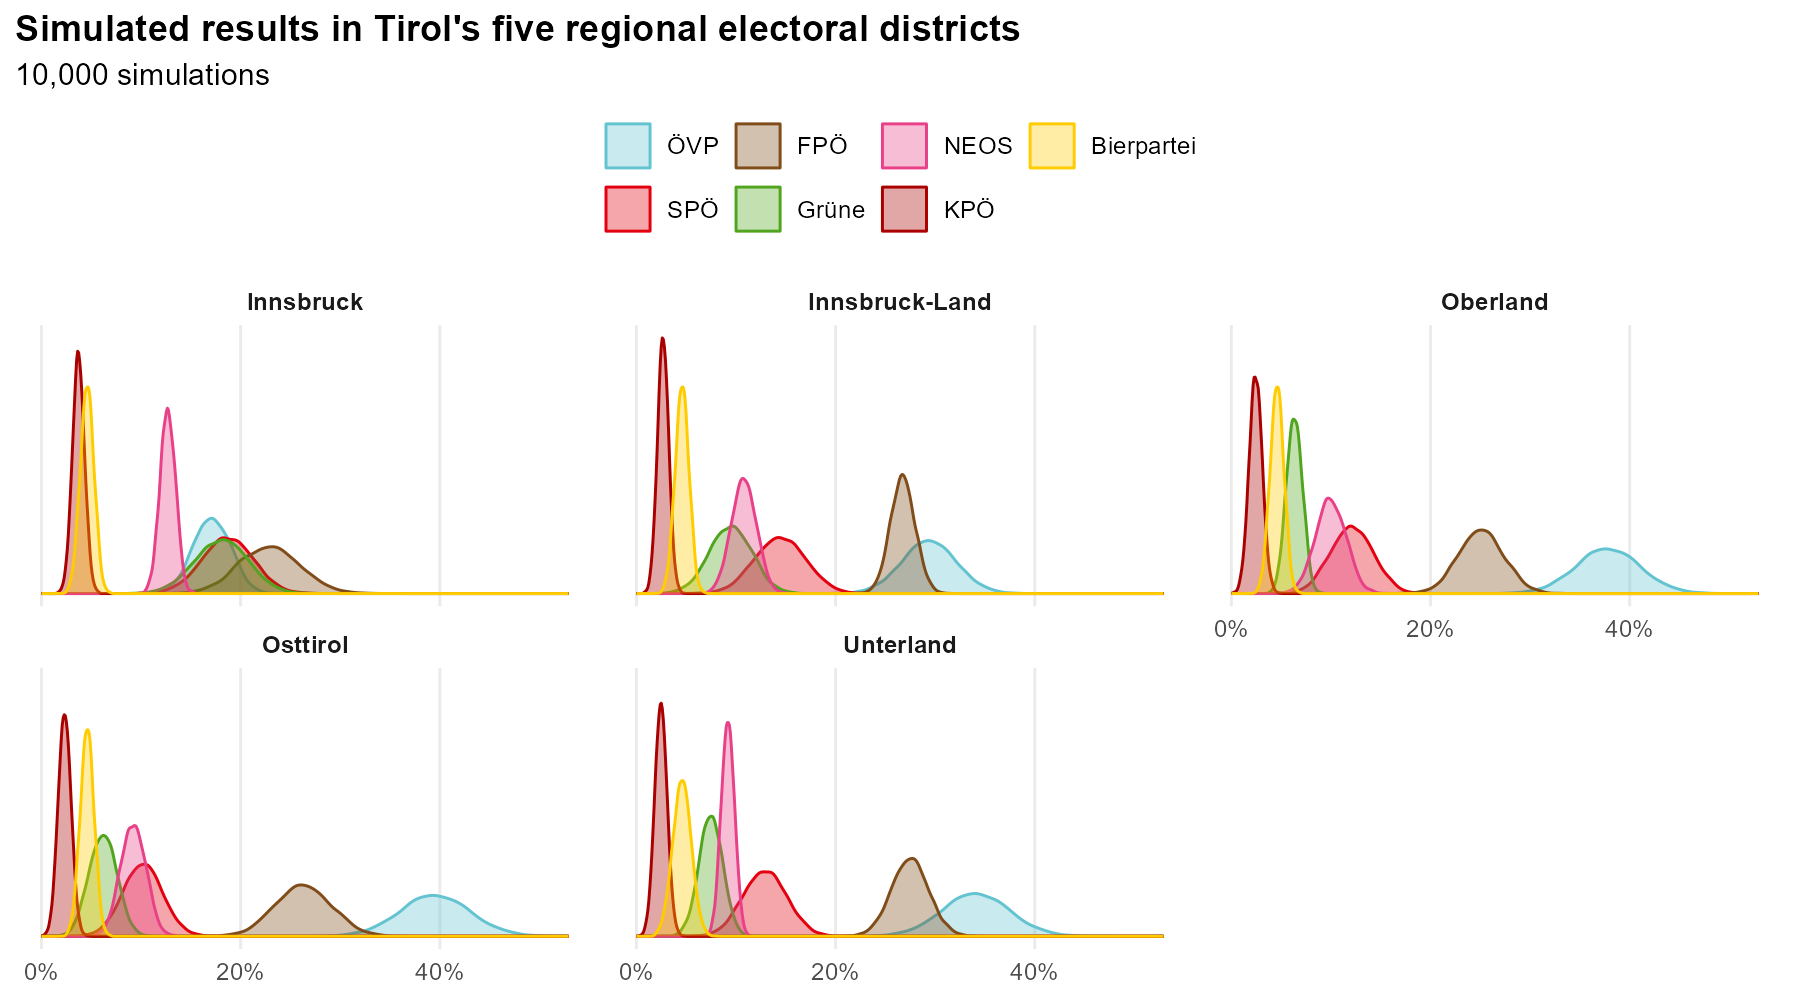
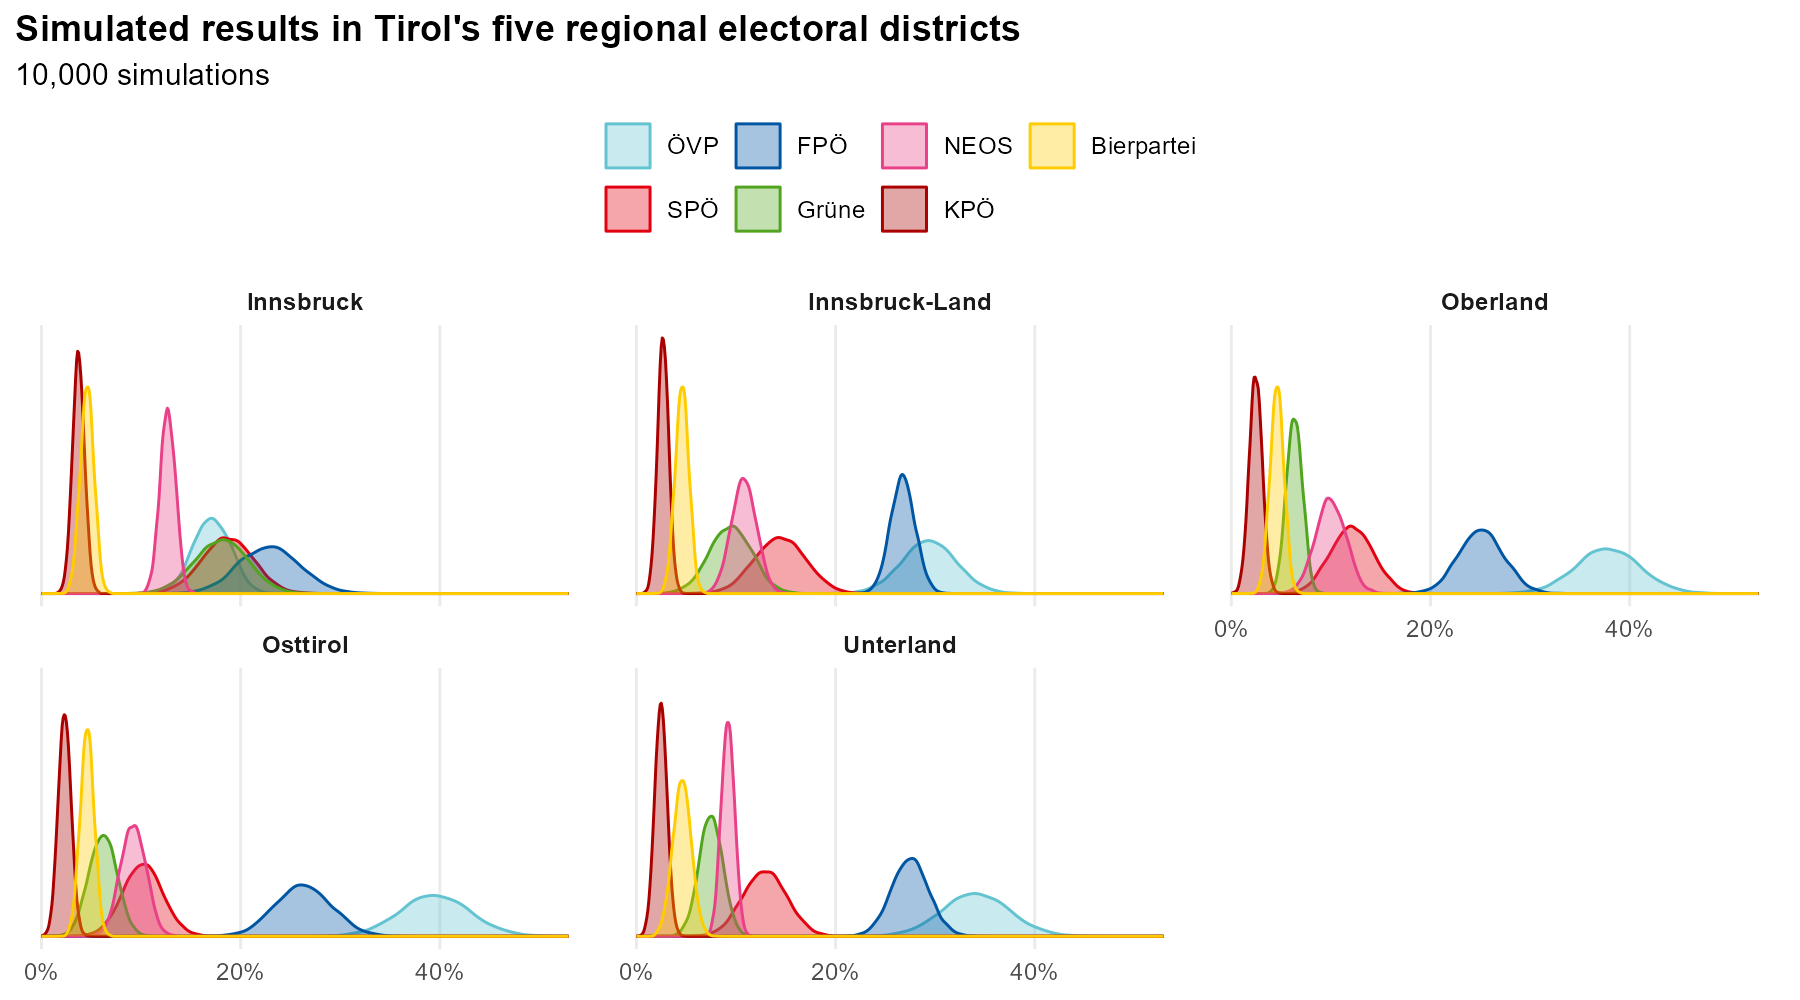
Add MIT license, results summary in README, FPÖ in blue
- LICENSE (MIT) for the code; README notes the data keeps its sources' terms
- README: short "How it held up" section with the forecast-vs-result plot
- FPÖ drawn in its usual blue instead of brown in all figures

diff --git a/README.md b/README.md
@@ -17,6 +17,13 @@ Every simulation then goes through Austria's three-tier seat-allocation law to p
 - **[MODEL.md](MODEL.md)** explains how the model works, step by step.
 - **[POSTMORTEM.md](POSTMORTEM.md)** compares the final forecast (27 September 2024) with the official result.
 
+## How it held up
+
+<p align="center"><img src="figures/postmortem_votes.png" alt="Forecast vs. result, vote share"></p>
+
+8 of 9 parties landed inside their 90% forecast interval, and SPÖ, Grüne and NEOS were within a point of the result.
+The clear miss was the Bierpartei: it polled at 4.7% and got 2.0%. Details in [POSTMORTEM.md](POSTMORTEM.md).
+
 ## Reproducing it
 
 Requires R ≥ 4.3 and the packages `tidyverse`, `MASS`, `sf`, `ragg`, `patchwork` and `scales` (plus `readxl` for
@@ -53,3 +60,8 @@ those inputs were estimated.
   used only for the post-mortem, never as a model input.
 - **Polls:** the [@Wahlen_AT](https://twitter.com/Wahlen_AT) poll collection.
 - **District boundaries:** Statistik Austria, Regionalwahlkreise 2024.
+
+## License
+
+The code is released under the [MIT License](LICENSE). The data in `data/` comes from the sources above and remains
+subject to their terms; the MIT License does not apply to it.
